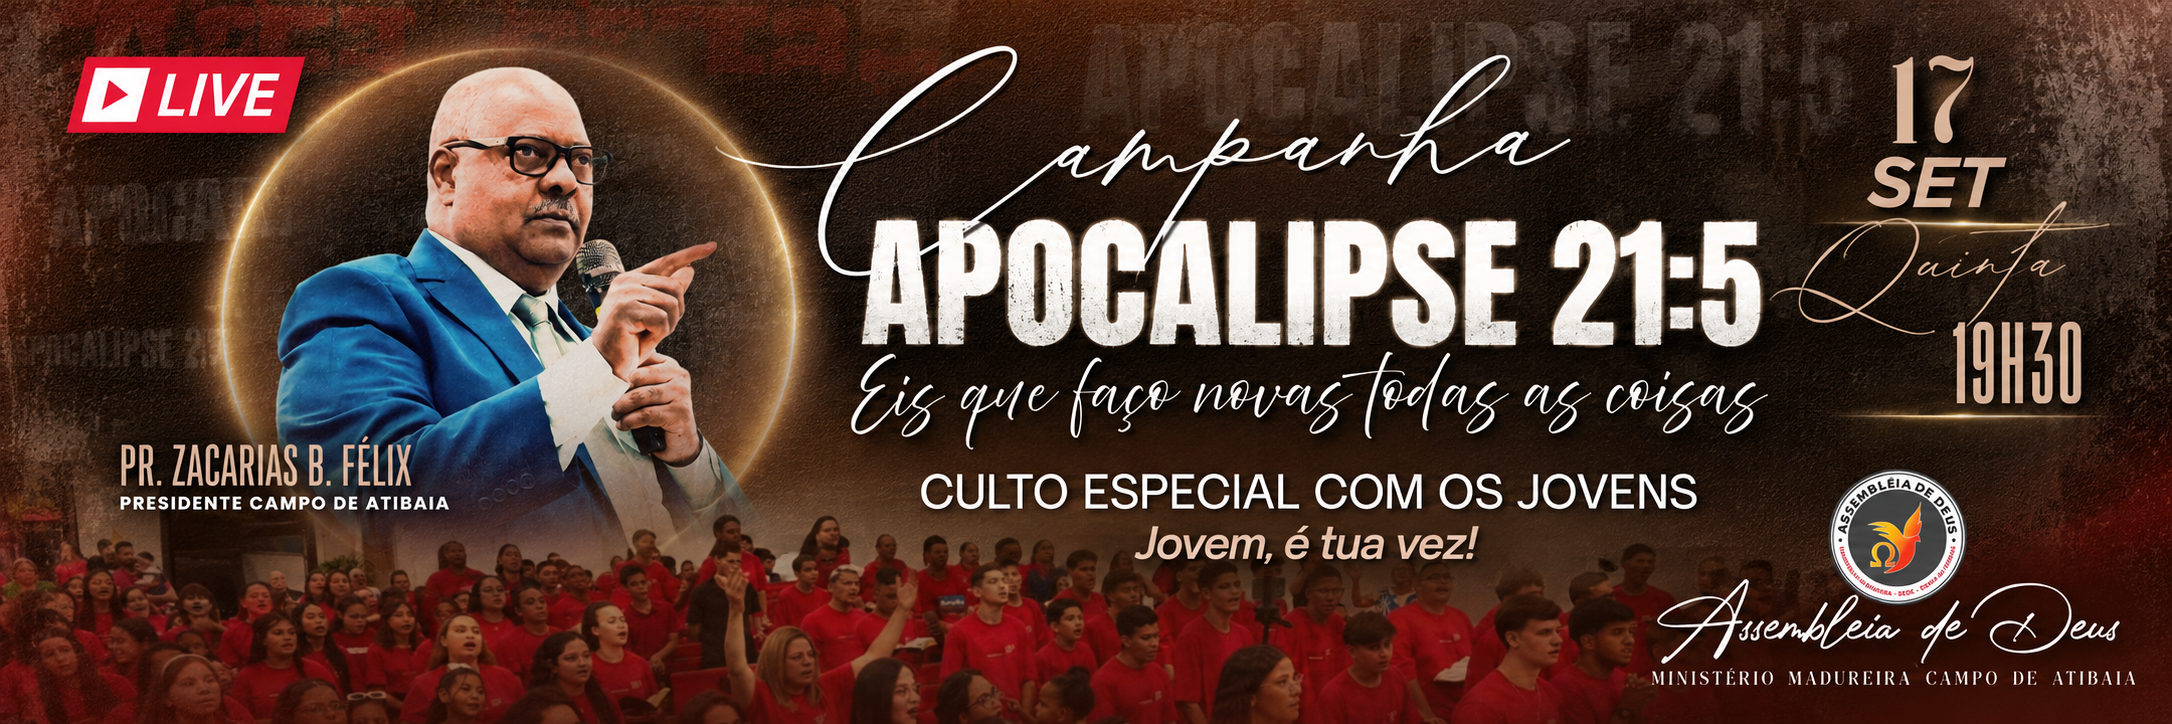
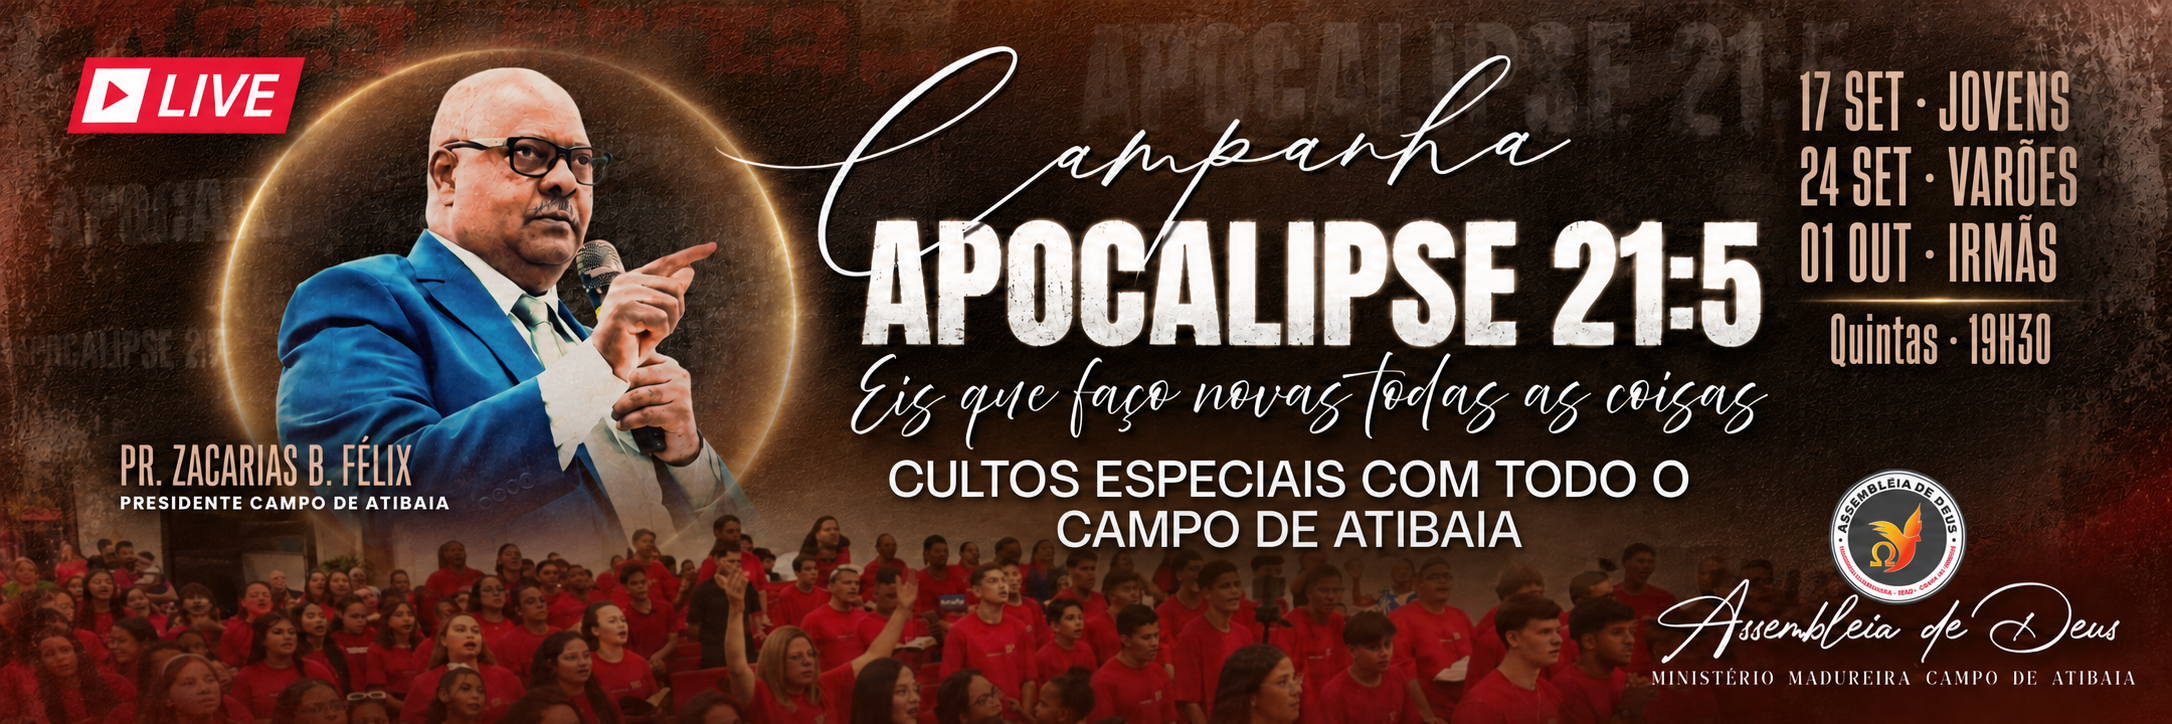
feat(hero): troca para a arte única da Campanha Apocalipse 21:5
Substitui banner-campanha-apocalipse-21-5.png pela versão sem data
cravada, que lista as três quintas da campanha (17/09 jovens, 24/09
varões, 01/10 irmãs) — resolve o problema de anunciar em destaque
uma noite específica já realizada.

Com a arte cobrindo a campanha inteira, eventEndDate/archivedAfter
voltam para 2026-10-01 (última data), então o slide fica no ar até
o fim da campanha sem precisar de PR novo a cada quinta.

Conferido via npm run dev + curl (arquivo estático servido bate com
a arte nova; o que apareceu cacheado pelo otimizador de imagem do
Next era resíduo da sessão de dev anterior, não afeta produção).

test:run 151/151.

diff --git a/src/data/hero.ts b/src/data/hero.ts
@@ -349,7 +349,8 @@ export function getHeroEventos(): HeroEvento[] {
       ariaLabel: "Abrir página do Culto da Vitória — Campanha Apocalipse 21:5",
       type: "event",
       eventDate: "2026-09-17",
-      archivedAfter: "2026-09-17",
+      eventEndDate: "2026-10-01",
+      archivedAfter: "2026-10-01",
     },
     {
       titulo: "Culto de Santa Ceia",
